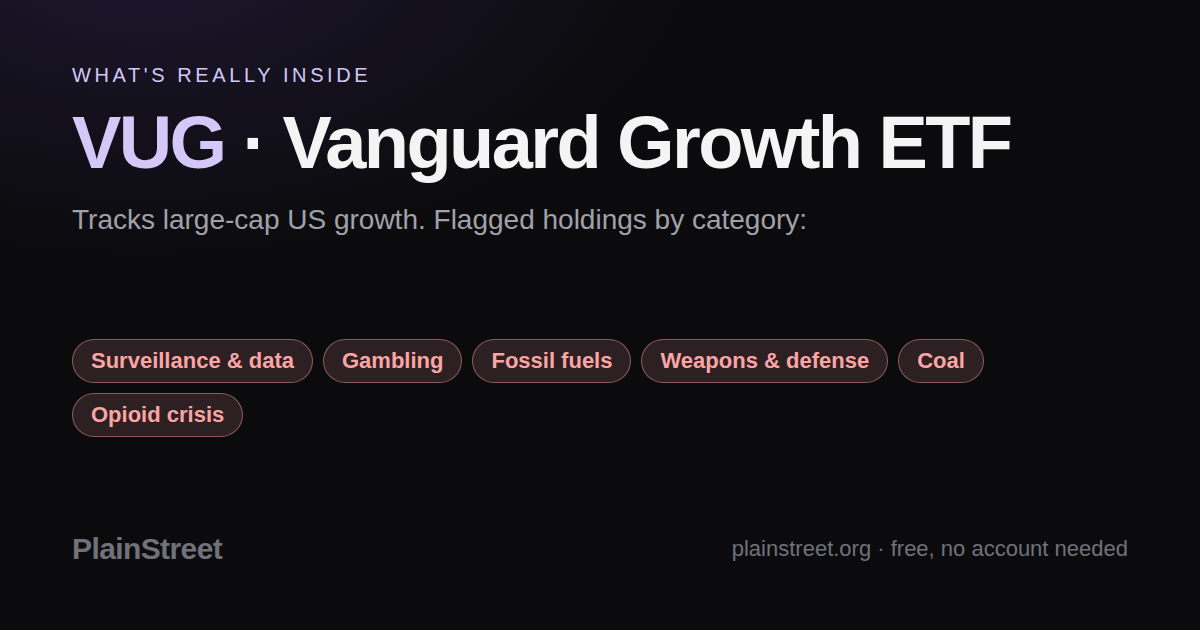
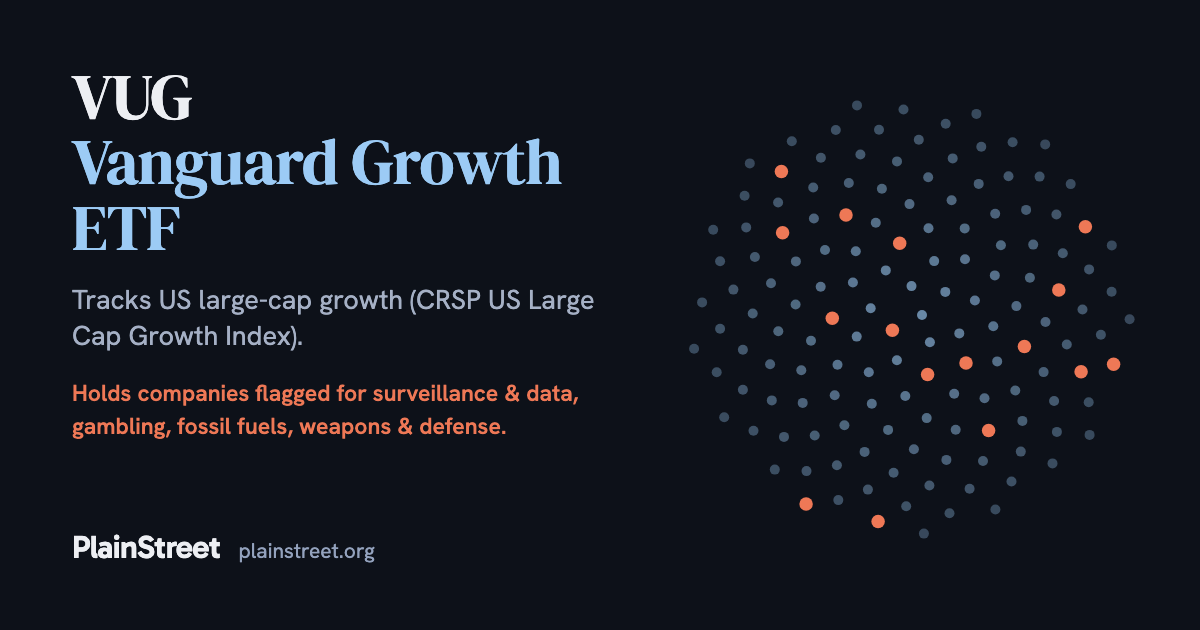
Redo the link-preview images in the site's current design
The images iMessage, Slack and X show for a shared link were in an old
olive-and-gold theme with pill tags, and only 26 funds had one. They are
now navy with the DM Serif headline, sky and coral, square edges and
each fund's own dot field (one dot per company, flagged ones in coral,
capped at 520 dots for the biggest funds). No counts are printed,
since previews are cached for weeks.

- 136 images: the homepage plus every fund in the catalogue.
- share.js falls back to the homepage image when a fund has none,
  instead of pointing at a missing file.
- build-og.mjs renders with the local Google Chrome over the DevTools
  protocol when Playwright isn't installed, all 136 in about 16 seconds,
  and removes images for funds no longer in the catalogue.

diff --git a/server/lib/share.js b/server/lib/share.js
@@ -9,7 +9,16 @@
 // HONESTY: the numbers here are computed from the same lookup the app uses, at request
 // time — never a hand-typed figure that goes stale.
 
+import { existsSync } from "node:fs";
+import { dirname, join } from "node:path";
+import { fileURLToPath } from "node:url";
 import { lookupSymbol } from "./analyzer.js";
+
+// A fund's own preview image if scripts/build-og.mjs has made one, otherwise the general
+// one. Without this check a fund added after the last image build pointed at a missing file
+// and shared links showed no picture.
+const OG_DIR = join(dirname(fileURLToPath(import.meta.url)), "..", "..", "public", "og");
+const ogFor = (sym) => (existsSync(join(OG_DIR, `${sym}.png`)) ? `/og/${sym}.png` : "/og/default.png");
 import { displayName, reasonParts } from "../../src/format.js";
 
 const esc = (s) => String(s ?? "").replace(/[&<>"']/g, (c) => ({ "&": "&amp;", "<": "&lt;", ">": "&gt;", '"': "&quot;", "'": "&#39;" }[c]));
@@ -52,7 +61,7 @@ export function shareMeta(symbol) {
     const description = contains.length
       ? `${r.name} tracks ${r.basis}. ${contains.length}${of} companies are flagged: ${top}. Every flag has a one-sentence reason and a source.${r.asOf ? ` Holdings as of ${r.asOf}.` : ""}`
       : `${r.name} tracks ${r.basis}. None of its holdings are on the lists we track, which means "not one of the names we track," never "audited clean."`;
-    return { title, description, ogImage: `/og/${sym}.png`, groups, contains, r };
+    return { title, description, ogImage: ogFor(sym), groups, contains, r };
   }
   if (r.type === "stock") {
     const labels = r.flags.map((f) => f.label).join(", ");
